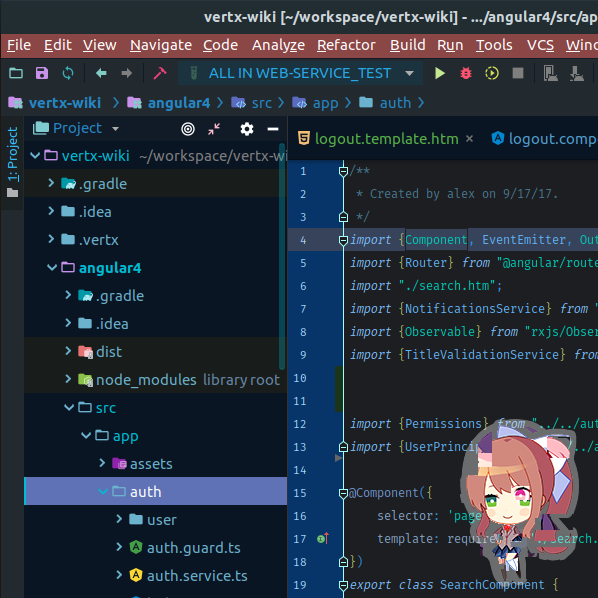
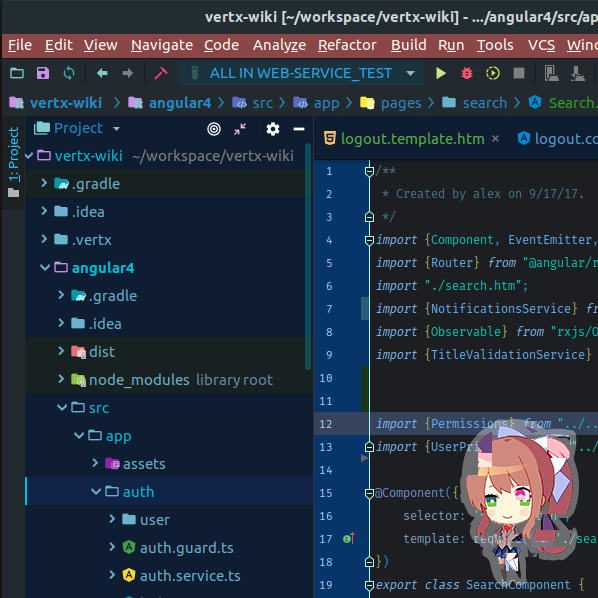
better dark sayori file scope colors, and tree selection

Changed region(s): [[0.0, 0.0, 1.0, 1.0], [0.9331, 0.8729, 0.9933, 0.9331]]

diff --git a/src/main/java/com/chrisrm/idea/themes/literature/club/dark/DeletedCharacterTheme.kt b/src/main/java/com/chrisrm/idea/themes/literature/club/dark/DeletedCharacterTheme.kt
@@ -21,7 +21,7 @@ class DeletedCharacterTheme: DokiDokiTheme("deleted.character", "Deleted Charact
 
     override fun getSelectionBackgroundColorString(): String = "324964"
 
-    override fun getTreeSelectionBackgroundColorString(): String = "5E72B5"
+    override fun getTreeSelectionBackgroundColorString(): String = "1D358C"
 
     override fun getMenuBarSelectionForegroundColorString(): String = "ffffff"
 
@@ -41,9 +41,9 @@ class DeletedCharacterTheme: DokiDokiTheme("deleted.character", "Deleted Charact
 
     override fun getEditorTabColorString(): String = contrastColorString
 
-    override fun getNonProjectFileScopeColor(): String = "151c1b"
+    override fun getNonProjectFileScopeColor(): String = "102121"
 
-    override fun getTestScope(): String = "0f2a00"
+    override fun getTestScope(): String = "0c3118"
 
     override fun getSecondBorderColorString(): String = "1B467C"
 
